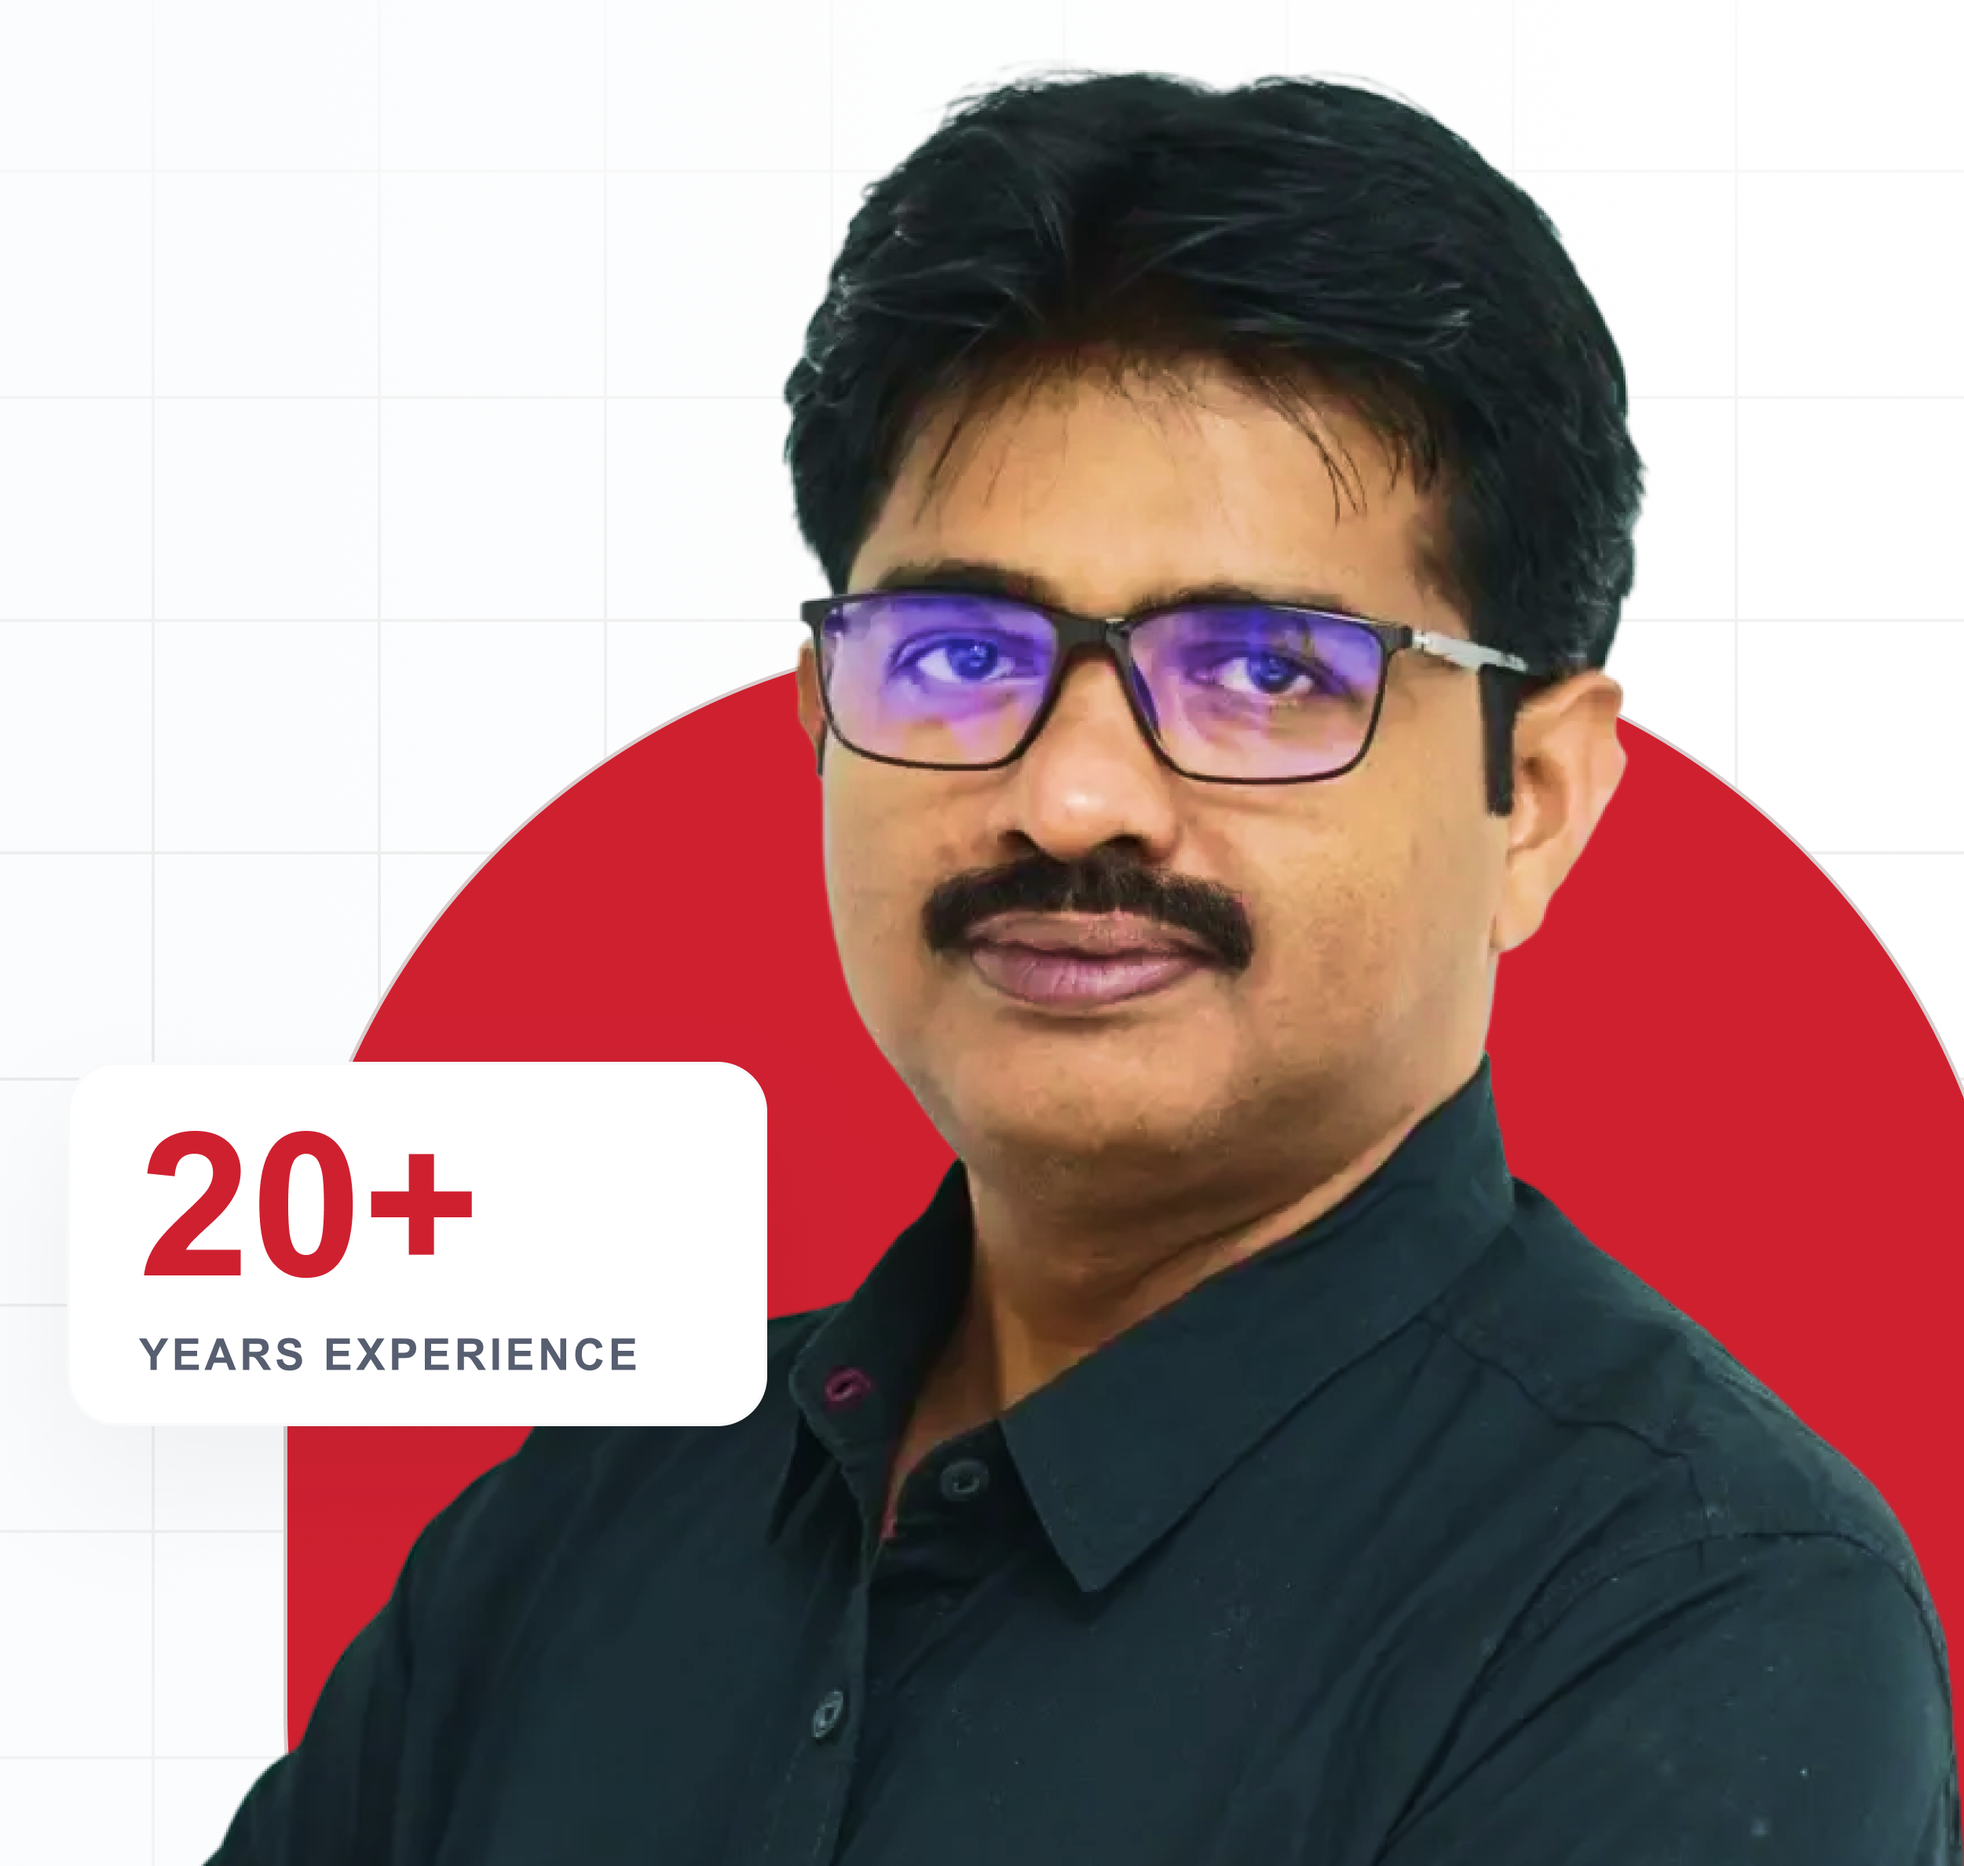
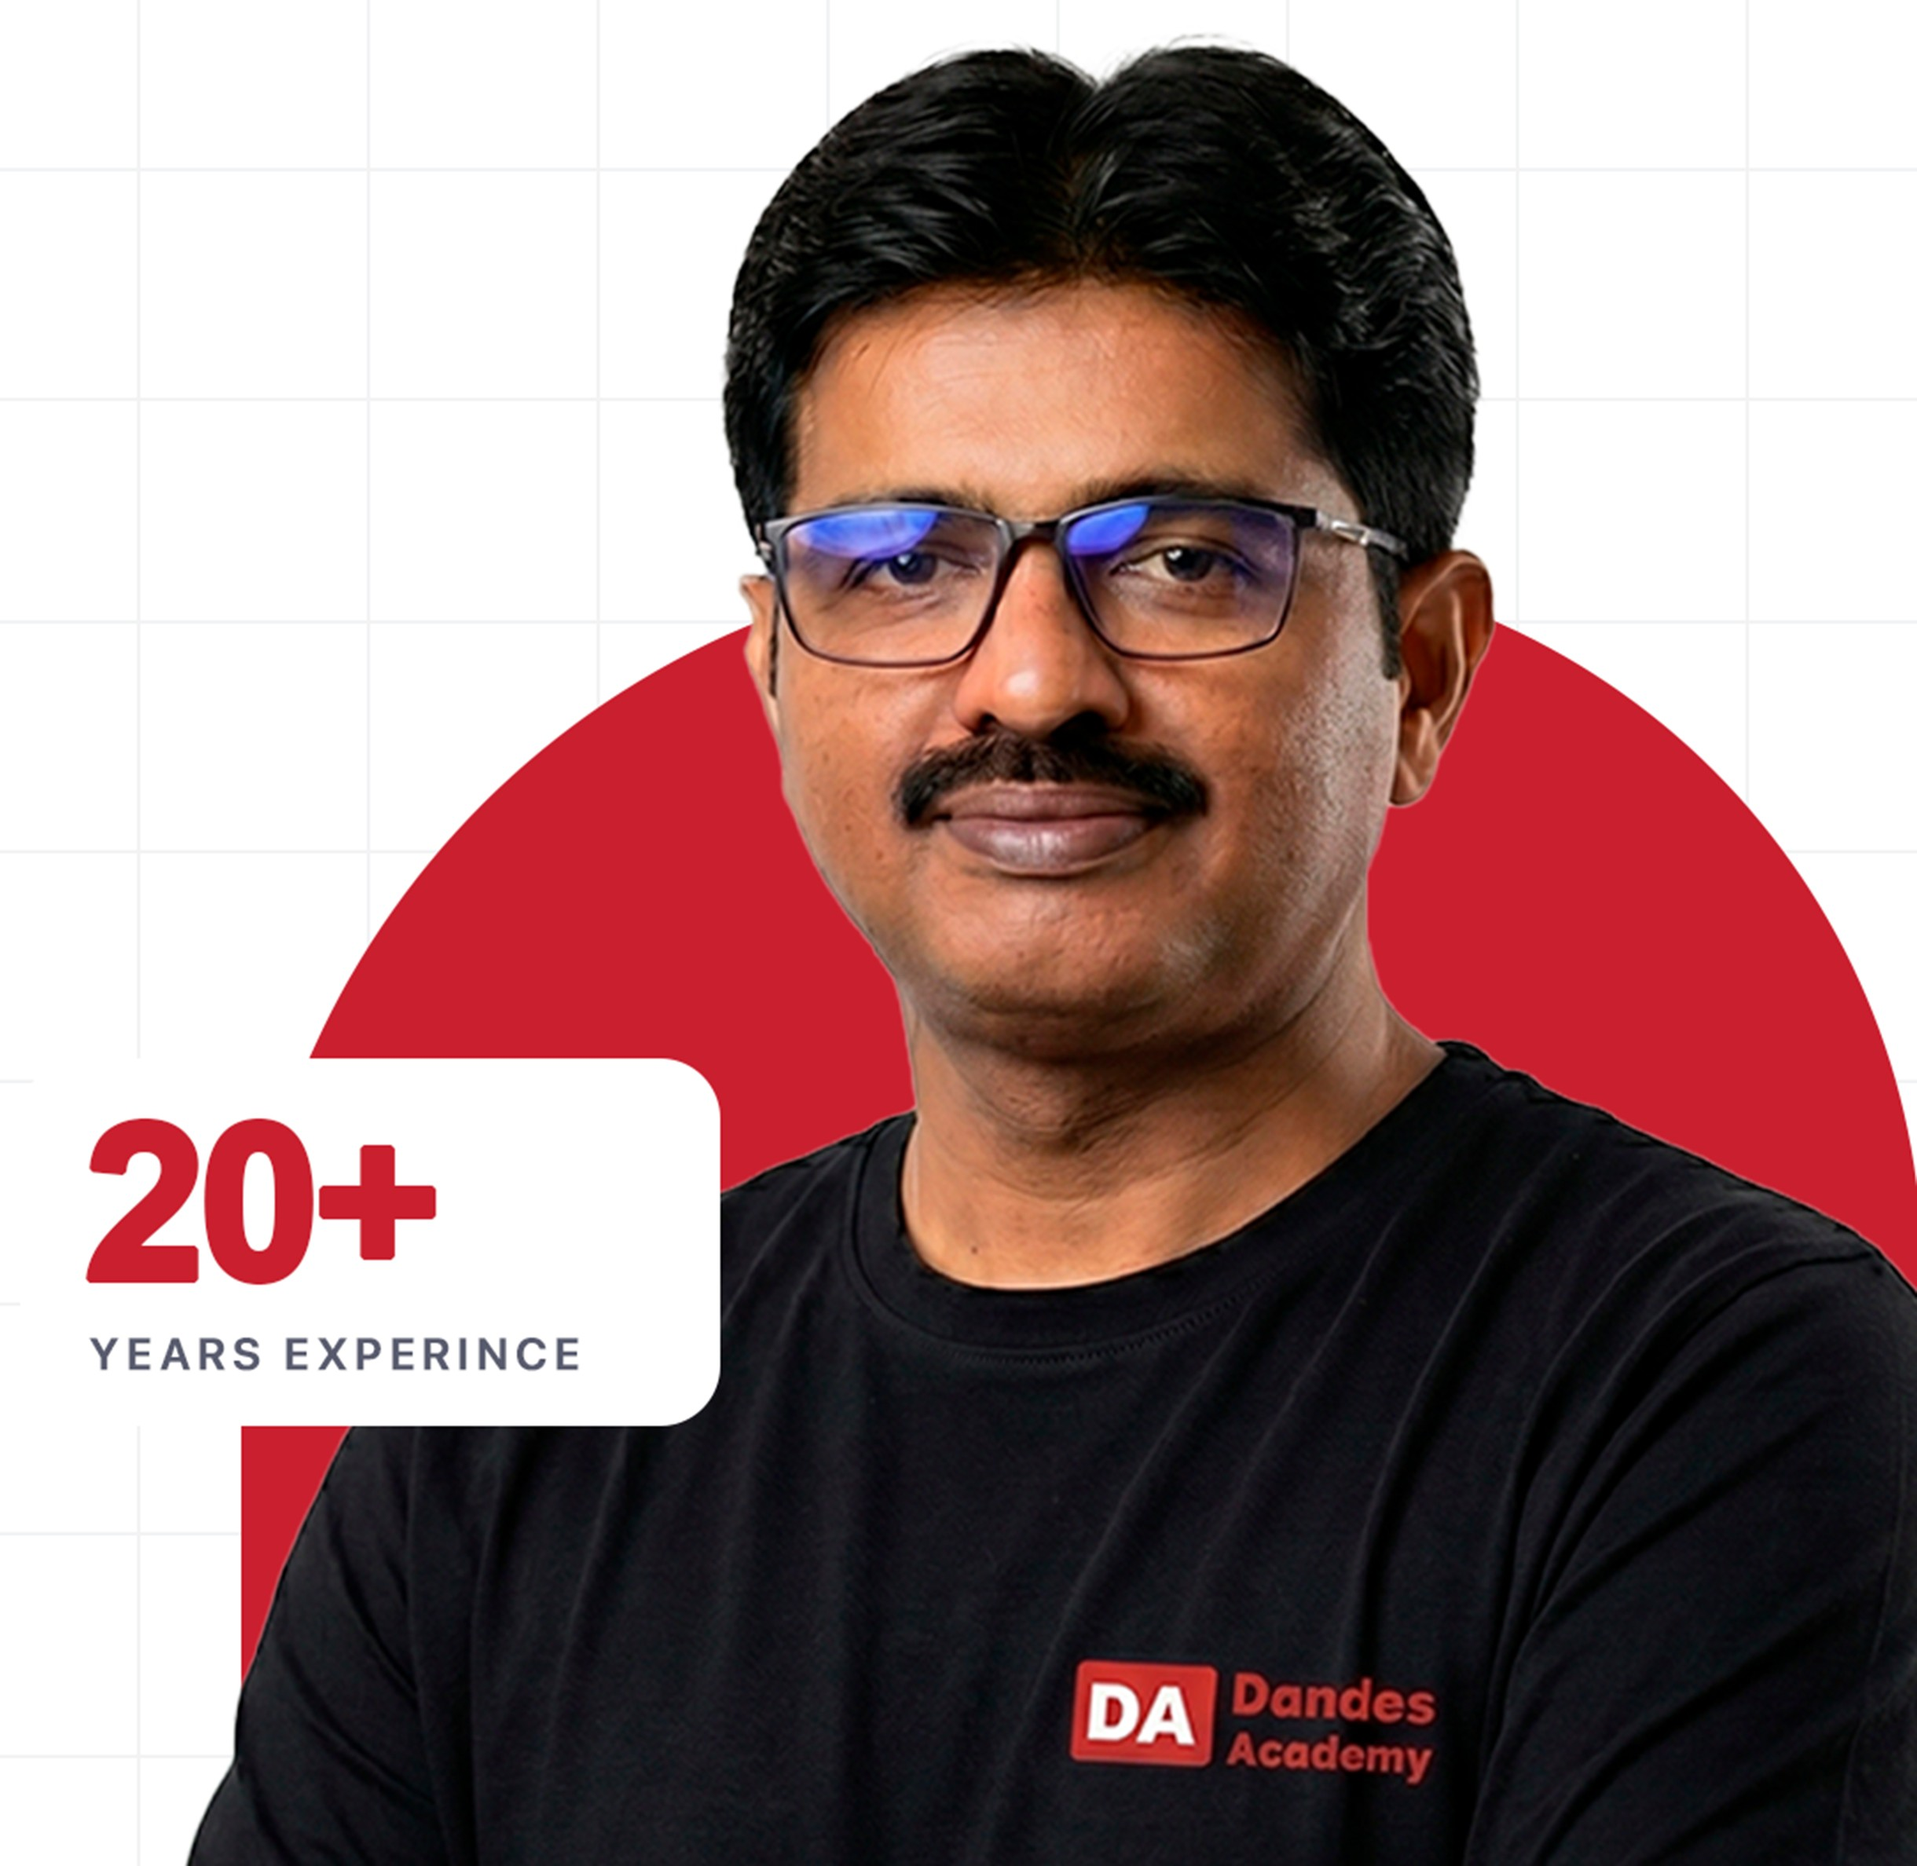
updated image

diff --git a/src/app/api/da-demo-leads/route.js b/src/app/api/da-demo-leads/route.js
@@ -1,6 +1,15 @@
 import { NextResponse } from "next/server";
 import { prisma } from "@/lib/prisma";
 import { isValidPhoneNumber } from "libphonenumber-js";
+import nodemailer from "nodemailer";
+
+const transporter = nodemailer.createTransport({
+  service: "gmail",
+  auth: {
+    user: process.env.EMAIL_USER,
+    pass: process.env.EMAIL_PASS,
+  },
+});
 
 
 export async function POST(req) {
@@ -56,6 +65,102 @@ export async function POST(req) {
         lead_status: "New",
       },
     });
+
+    try {
+  await transporter.sendMail({
+    from: `"Dandes Academy" <${process.env.EMAIL_USER}>`,
+    to: [
+      "inbound@pipelinevelocity.com",
+      "hello@dandesacademy.com",
+      "chaitanya@dandesacademy.com",
+      "swetha@dandesacademy.com",
+      "murali@dandesacademy.com",
+    ],
+    subject: `New Demo Lead - ${fullName} - AI & Machine Learning Program`,
+    html: `
+      <div style="font-family:Arial,sans-serif;background:#f5f7fa;padding:30px;">
+        <div style="max-width:520px;margin:auto;background:#fff;border-radius:8px;padding:25px;box-shadow:0 2px 8px rgba(0,0,0,.05);">
+
+          <h2 style="color:#C41E3A;">
+            New AI & Machine Learning Demo Lead
+          </h2>
+
+          <table style="width:100%;border-collapse:collapse;font-size:14px;">
+
+            <tr>
+              <td style="padding:8px;font-weight:bold;">Name</td>
+              <td style="padding:8px;">${fullName}</td>
+            </tr>
+
+            <tr>
+              <td style="padding:8px;font-weight:bold;">Email</td>
+              <td style="padding:8px;">${email}</td>
+            </tr>
+
+            <tr>
+              <td style="padding:8px;font-weight:bold;">Phone</td>
+              <td style="padding:8px;">${phone}</td>
+            </tr>
+
+            <tr>
+              <td style="padding:8px;font-weight:bold;">Course Interested</td>
+              <td style="padding:8px;">${courseInterested || "-"}</td>
+            </tr>
+
+            <tr>
+              <td style="padding:8px;font-weight:bold;">Lead Source</td>
+              <td style="padding:8px;">${leadSource || "-"}</td>
+            </tr>
+
+            <tr>
+              <td style="padding:8px;font-weight:bold;">Lead Sub Source</td>
+              <td style="padding:8px;">${leadSubSource || "-"}</td>
+            </tr>
+
+            <tr>
+              <td style="padding:8px;font-weight:bold;">Page URL</td>
+              <td style="padding:8px;">${pageUrl || "-"}</td>
+            </tr>
+
+            <tr>
+              <td style="padding:8px;font-weight:bold;">IP Address</td>
+              <td style="padding:8px;">${ipAddress}</td>
+            </tr>
+
+            <tr>
+              <td style="padding:8px;font-weight:bold;">Lead Status</td>
+              <td style="padding:8px;">${lead.lead_status}</td>
+            </tr>
+
+            <tr>
+              <td style="padding:8px;font-weight:bold;">Created Time</td>
+              <td style="padding:8px;">
+                ${lead.created_at.toLocaleString("en-IN", {
+                  day: "numeric",
+                  month: "short",
+                  year: "numeric",
+                  hour: "2-digit",
+                  minute: "2-digit",
+                  hour12: true,
+                })}
+              </td>
+            </tr>
+
+          </table>
+
+          <hr style="margin:20px 0;border:none;border-top:1px solid #eee;">
+
+          <p style="font-size:12px;color:#888;">
+            Lead submitted from Demo Registration Form.
+          </p>
+
+        </div>
+      </div>
+    `,
+  });
+} catch (mailError) {
+  console.error("Email Error:", mailError);
+}
     
     try {
       const webhookResponse = await fetch("https://connect.pabbly.com/webhook-listener/webhook/IjU3NjIwNTY0MDYzMTA0MzA1MjZkNTUzZCI_3D_pc/IjU3NjcwNTY5MDYzMTA0MzU1MjY5NTUzMzUxM2Ii_pc", {

diff --git a/src/components/thank-you/thank-you-section.jsx b/src/components/thank-you/thank-you-section.jsx
@@ -2,22 +2,32 @@
 
 export default function ThankYouSection() {
   const features = [
-    {
-      icon: "/images/thank-you/video.png",
-      title: 'Watch Free Class Videos',
-      description: 'Access our library of foundational AI concepts and tutorials.',
-    },
-    {
-      icon: "/images/thank-you/webinar.png",
-      title: 'View Upcoming Demo',
-      description: 'Register for live sessions with our industry-leading instructors.',
-    },
-    {
-      icon: "/images/thank-you/whatsapp.png",
-      title: 'Message us on WhatsApp',
-      description: 'Connect with our support team for immediate assistance.',
-    },
-  ]
+  {
+    icon: "/images/thank-you/video.png",
+    title: "Watch Free Class Videos",
+    description: "Access our library of foundational AI concepts and tutorials.",
+    link: "/free-class-videos",
+  },
+  {
+    icon: "/images/thank-you/webinar.png",
+    title: "View Testimonials",
+    description: "Register for live sessions with our industry-leading instructors.",
+    link: "/testimonials",
+  },
+  {
+  icon: "/images/thank-you/whatsapp.png",
+  title: "Message us on WhatsApp",
+  description: (
+    <>
+      <span style={{ color: "#6B7280" }}>WHATSAPP/CALL: </span>
+      <span style={{ color: "#DC2626", fontWeight: 600 }}>
+        +91 7090366699
+      </span>
+    </>
+  ),
+  link: "https://wa.me/917090366699",
+},
+];
 
   return (
     <section
@@ -124,8 +134,8 @@ export default function ThankYouSection() {
             lineHeight: 1.6,
           }}
         >
-          You&apos;re one step closer to becoming industry-ready in{' '}
-          <span style={{ color: '#DC2626', fontWeight: 600 }}>AI & Machine Learning</span>.
+          You&apos;re one step closer to becoming industry-ready{' '}
+          <span style={{ color: '#DC2626', fontWeight: 600 }}></span>.
         </p>
 
         {/* Next Steps Card */}
@@ -217,17 +227,33 @@ export default function ThankYouSection() {
           className="feature-cards-grid"
         >
           {features.map((feature, index) => (
-            <div
-              key={index}
-              style={{
-                backgroundColor: '#fff',
-                borderRadius: 12,
-                padding: '28px 24px',
-                textAlign: 'left',
-                boxShadow: '0 2px 12px rgba(0, 0, 0, 0.04)',
-                border: '1px solid #F3F4F6',
-              }}
-            >
+            <a
+  key={index}
+  href={feature.link}
+  target={feature.link.startsWith("https") ? "_blank" : "_self"}
+  rel={feature.link.startsWith("https") ? "noopener noreferrer" : undefined}
+  style={{
+    backgroundColor: "#fff",
+    borderRadius: 12,
+    padding: "28px 24px",
+    textAlign: "left",
+    boxShadow: "0 2px 12px rgba(0, 0, 0, 0.04)",
+    border: "1px solid #F3F4F6",
+    textDecoration: "none",
+    display: "block",
+    transition: "all 0.2s ease",
+    color: "inherit",
+    cursor: "pointer",
+  }}
+  onMouseEnter={(e) => {
+    e.currentTarget.style.transform = "translateY(-4px)";
+    e.currentTarget.style.boxShadow = "0 8px 20px rgba(0,0,0,0.1)";
+  }}
+  onMouseLeave={(e) => {
+    e.currentTarget.style.transform = "translateY(0)";
+    e.currentTarget.style.boxShadow = "0 2px 12px rgba(0,0,0,0.04)";
+  }}
+>
               <div>
                 <img
                   src={feature.icon}
@@ -259,7 +285,7 @@ export default function ThankYouSection() {
               >
                 {feature.description}
               </p>
-            </div>
+            </a>
           ))}
         </div>
 

diff --git a/src/app/blog/why-most-ai-learning-journeys-fail-and-how-to-avoid-it/blog-post-content.jsx b/src/app/blog/why-most-ai-learning-journeys-fail-and-how-to-avoid-it/blog-post-content.jsx
@@ -309,11 +309,11 @@ const relatedArticles = [
               <div className="b6-tc-card good">
                 <h4>✓ The Successful Journey</h4>
                 {[
-                  ['Month 1–2:', 'Python + statistics foundation. Builds first mini-projects in Python.'],
-                  ['Month 3–4:', 'ML algorithms, model evaluation. Builds a deployed churn prediction API on GitHub.'],
-                  ['Month 5:', 'LLMs, RAG, AI agents. Builds and deploys a RAG chatbot. Starts applying.'],
-                  ['Month 6:', 'MLOps, capstone project. 2 portfolio projects deployed. First interviews coming in.'],
-                  ['Month 7–9:', 'Offer in hand. Career transition complete.'],
+                  ['Month 1–4:', 'Python + statistics foundation. Builds first mini-projects in Python.'],
+                  ['Month 5–7:', 'ML algorithms, model evaluation. Builds a deployed churn prediction API on GitHub.'],
+                  ['Month 8-10:', 'LLMs, RAG, AI agents. Builds and deploys a RAG chatbot. Starts applying.'],
+                  ['Month 11-12:', 'MLOps, capstone project. 2 portfolio projects deployed. First interviews coming in.'],
+                  ['Month 13–15:', 'Offer in hand. Career transition complete.'],
                 ].map(([month, text]) => (
                   <div key={month} className="b6-tc-month">
                     <div className="b6-tc-dot" />

diff --git a/src/components/srinivas/learn-with-srinivas.jsx b/src/components/srinivas/learn-with-srinivas.jsx
@@ -31,7 +31,7 @@ export default function LearnWithSrinivas() {
     >
       {/* Full section background image - hidden on mobile */}
       <img
-        src="/images/instructor-bg.png"
+        src="/images/instructor-bg.webp"
         alt=""
         aria-hidden="true"
         className="instructor-bg-image"
@@ -64,7 +64,7 @@ export default function LearnWithSrinivas() {
           {/* Mobile instructor image - shown only on mobile at TOP */}
           <div className="mobile-instructor-image">
             <img
-              src="/images/instructor.png"
+              src="/images/instructor.webp"
               alt="Srinivas Dande - Founder and Instructor"
               style={{
                 width: '100%',

diff --git a/src/components/srinivas/experience-section.jsx b/src/components/srinivas/experience-section.jsx
@@ -205,7 +205,7 @@ export default function ExperienceSection() {
                     marginBottom: 12,
                   }}
                 >
-                  Technical Lead
+                  System Architect
                 </h3>
                 <p
                   style={{
